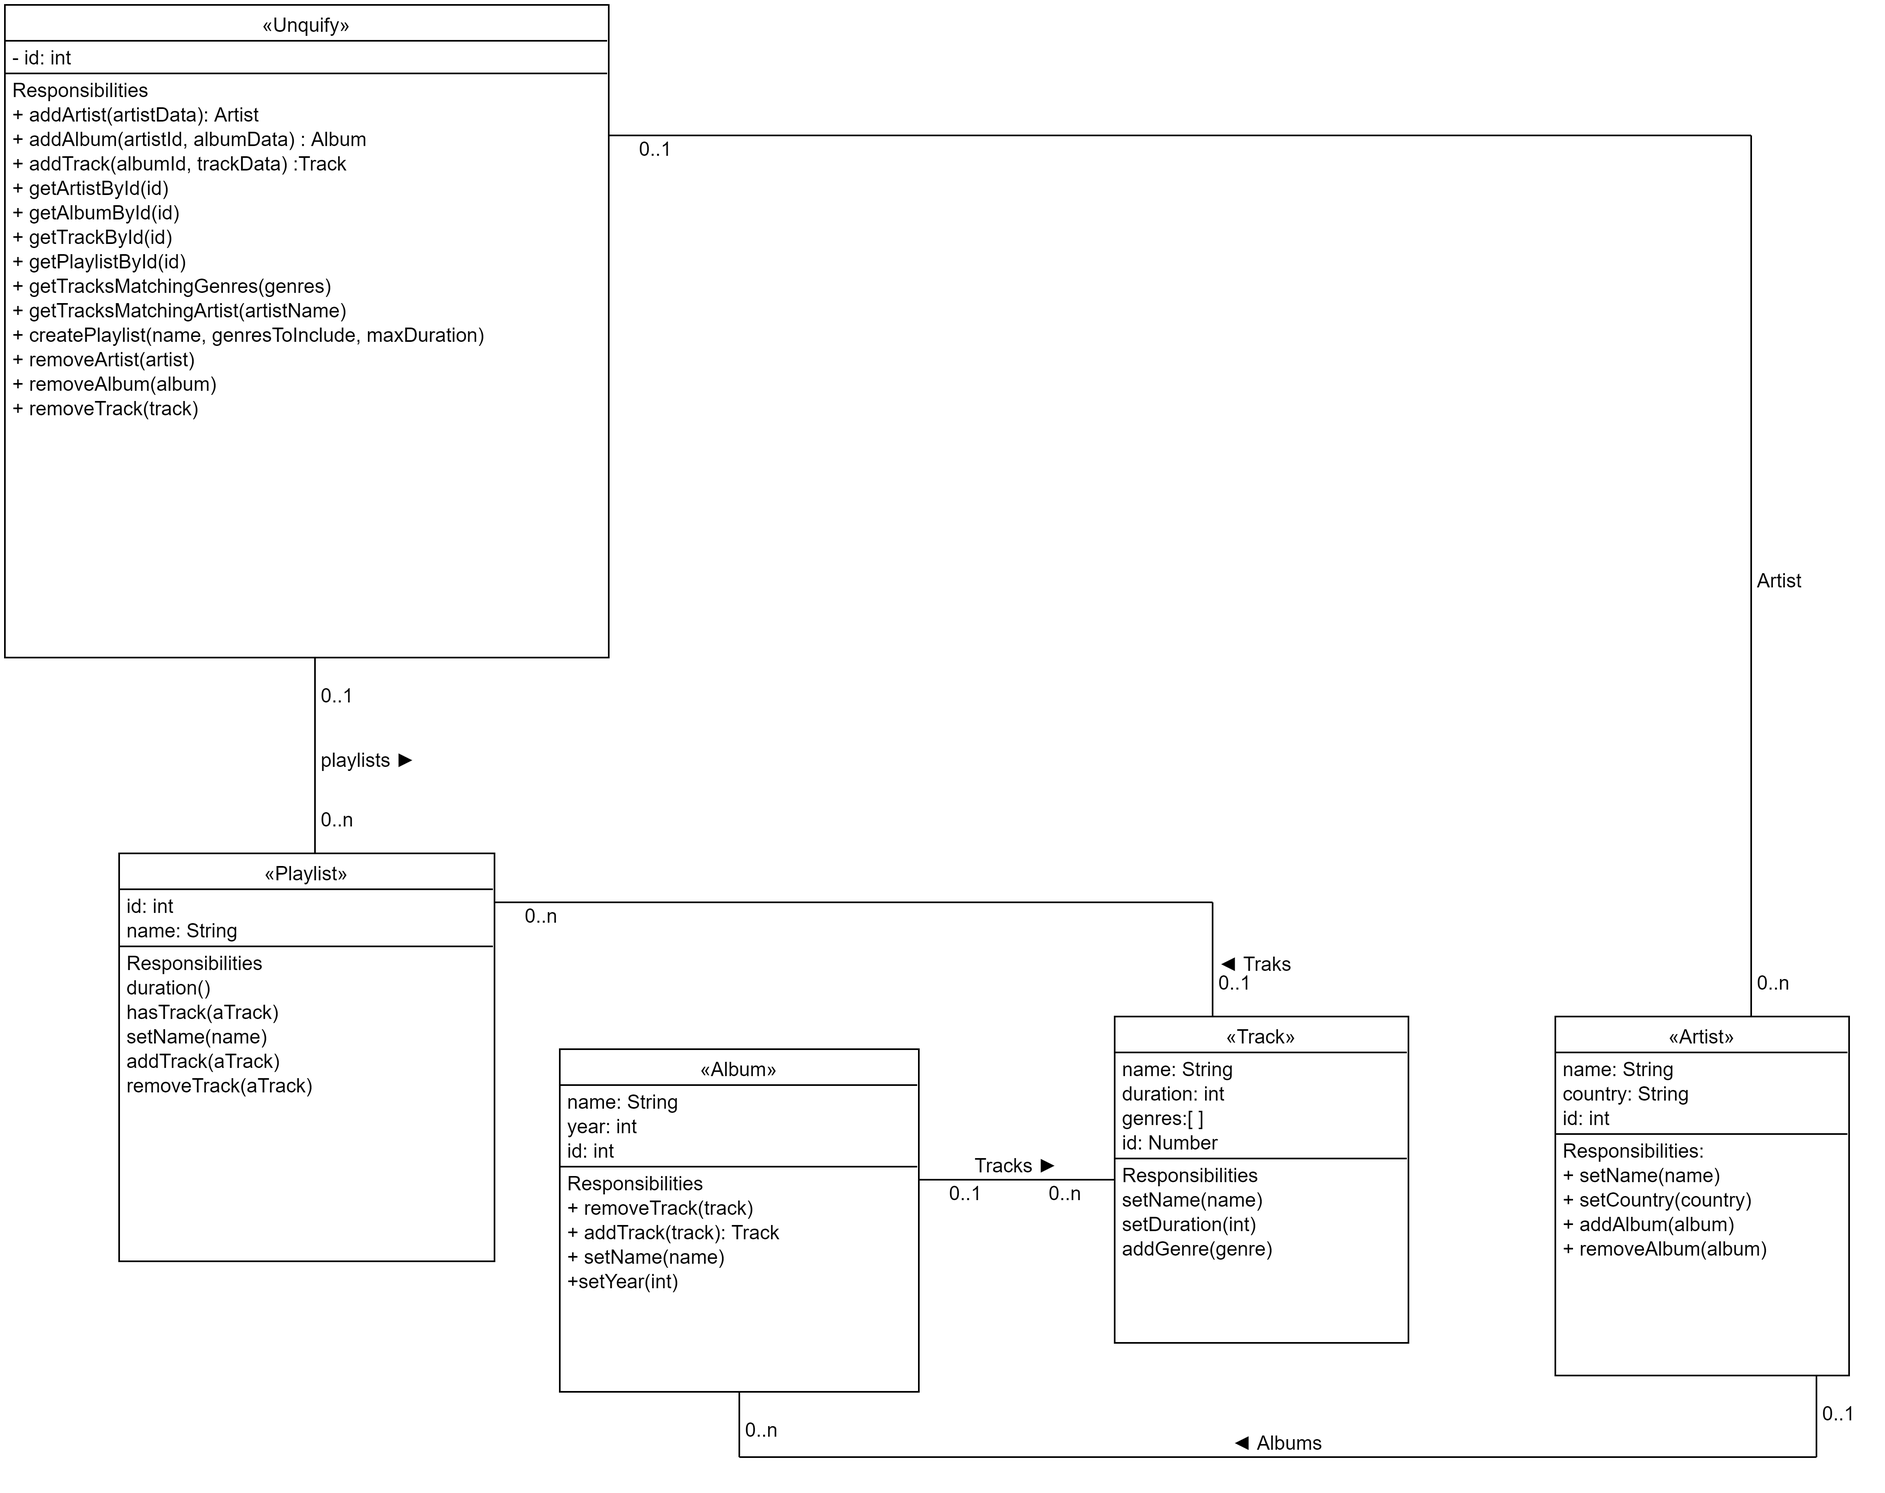
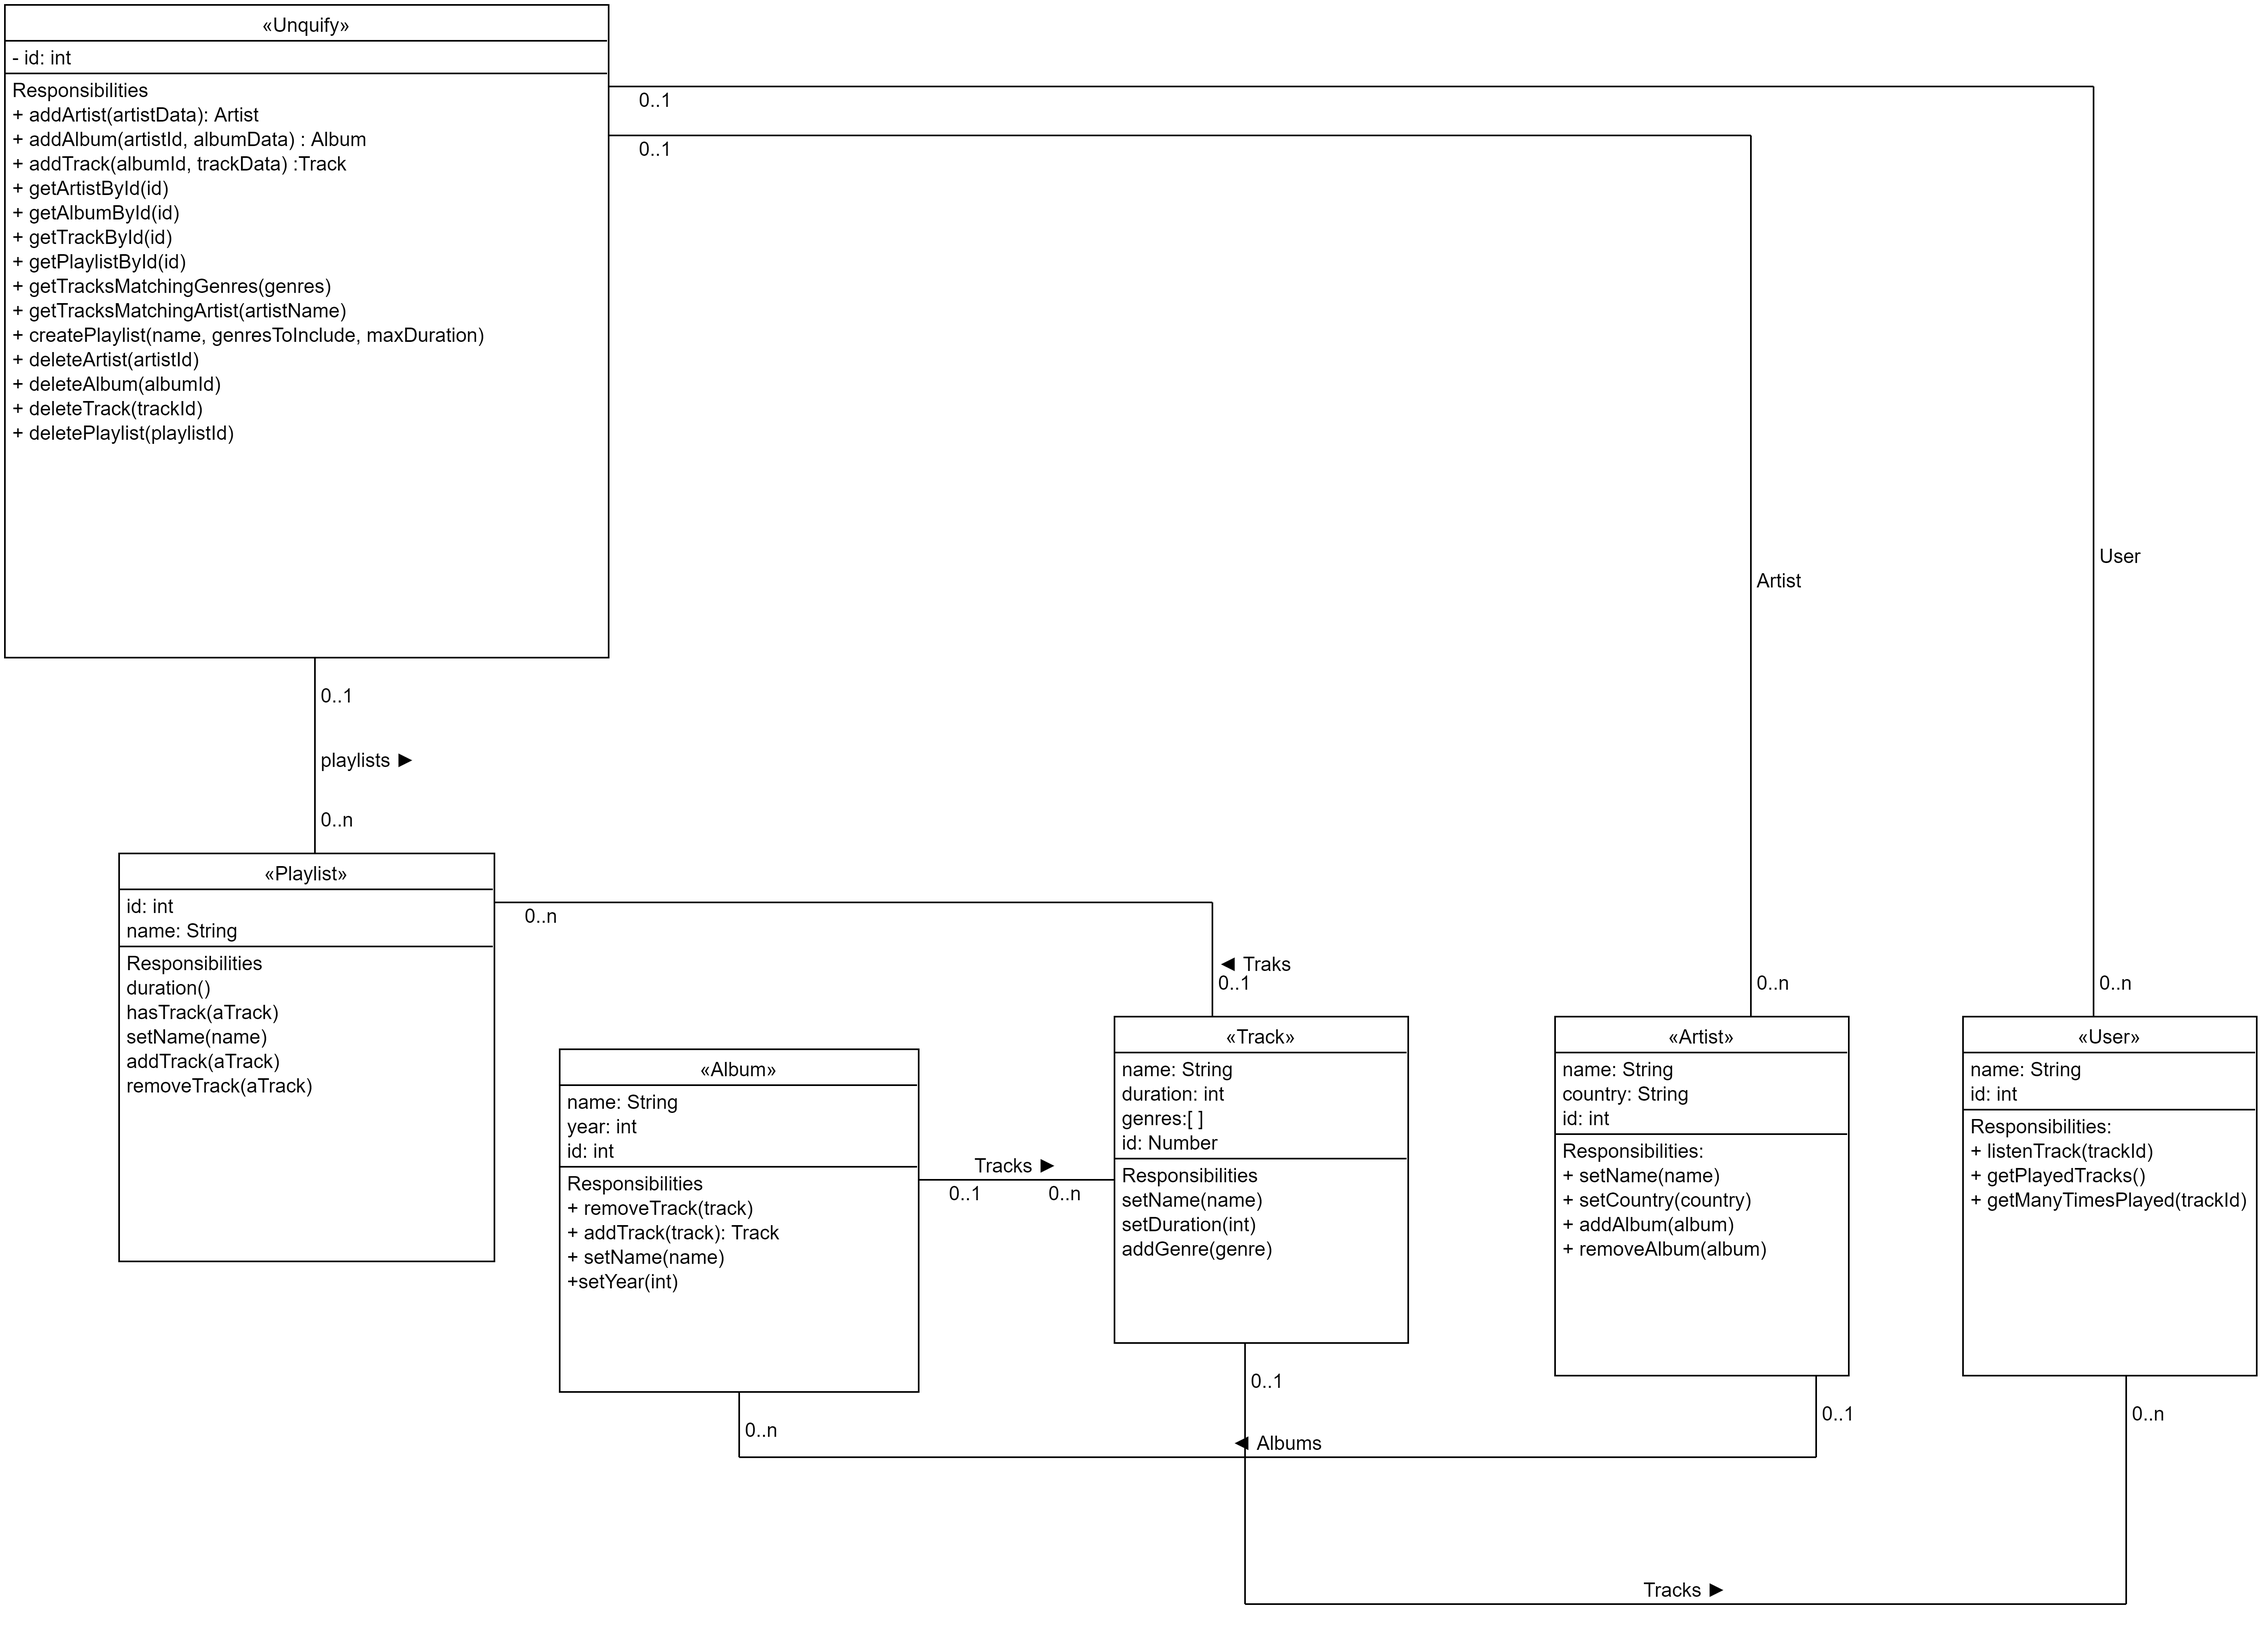
UML actualizado con User + clase User

diff --git a/src/user.js b/src/user.js
@@ -1,0 +1,21 @@
+
+module.exports= class user{
+
+  constructor(name, id){
+    this._id= id;
+    this._name=name;
+    this._playedTracks = [];
+  }
+
+  get id(){
+    return this._id;
+  }
+  get name(){
+    return this._name;
+  }
+
+  get playedTracks(){
+    return this._playedTracks;
+  }
+
+};
